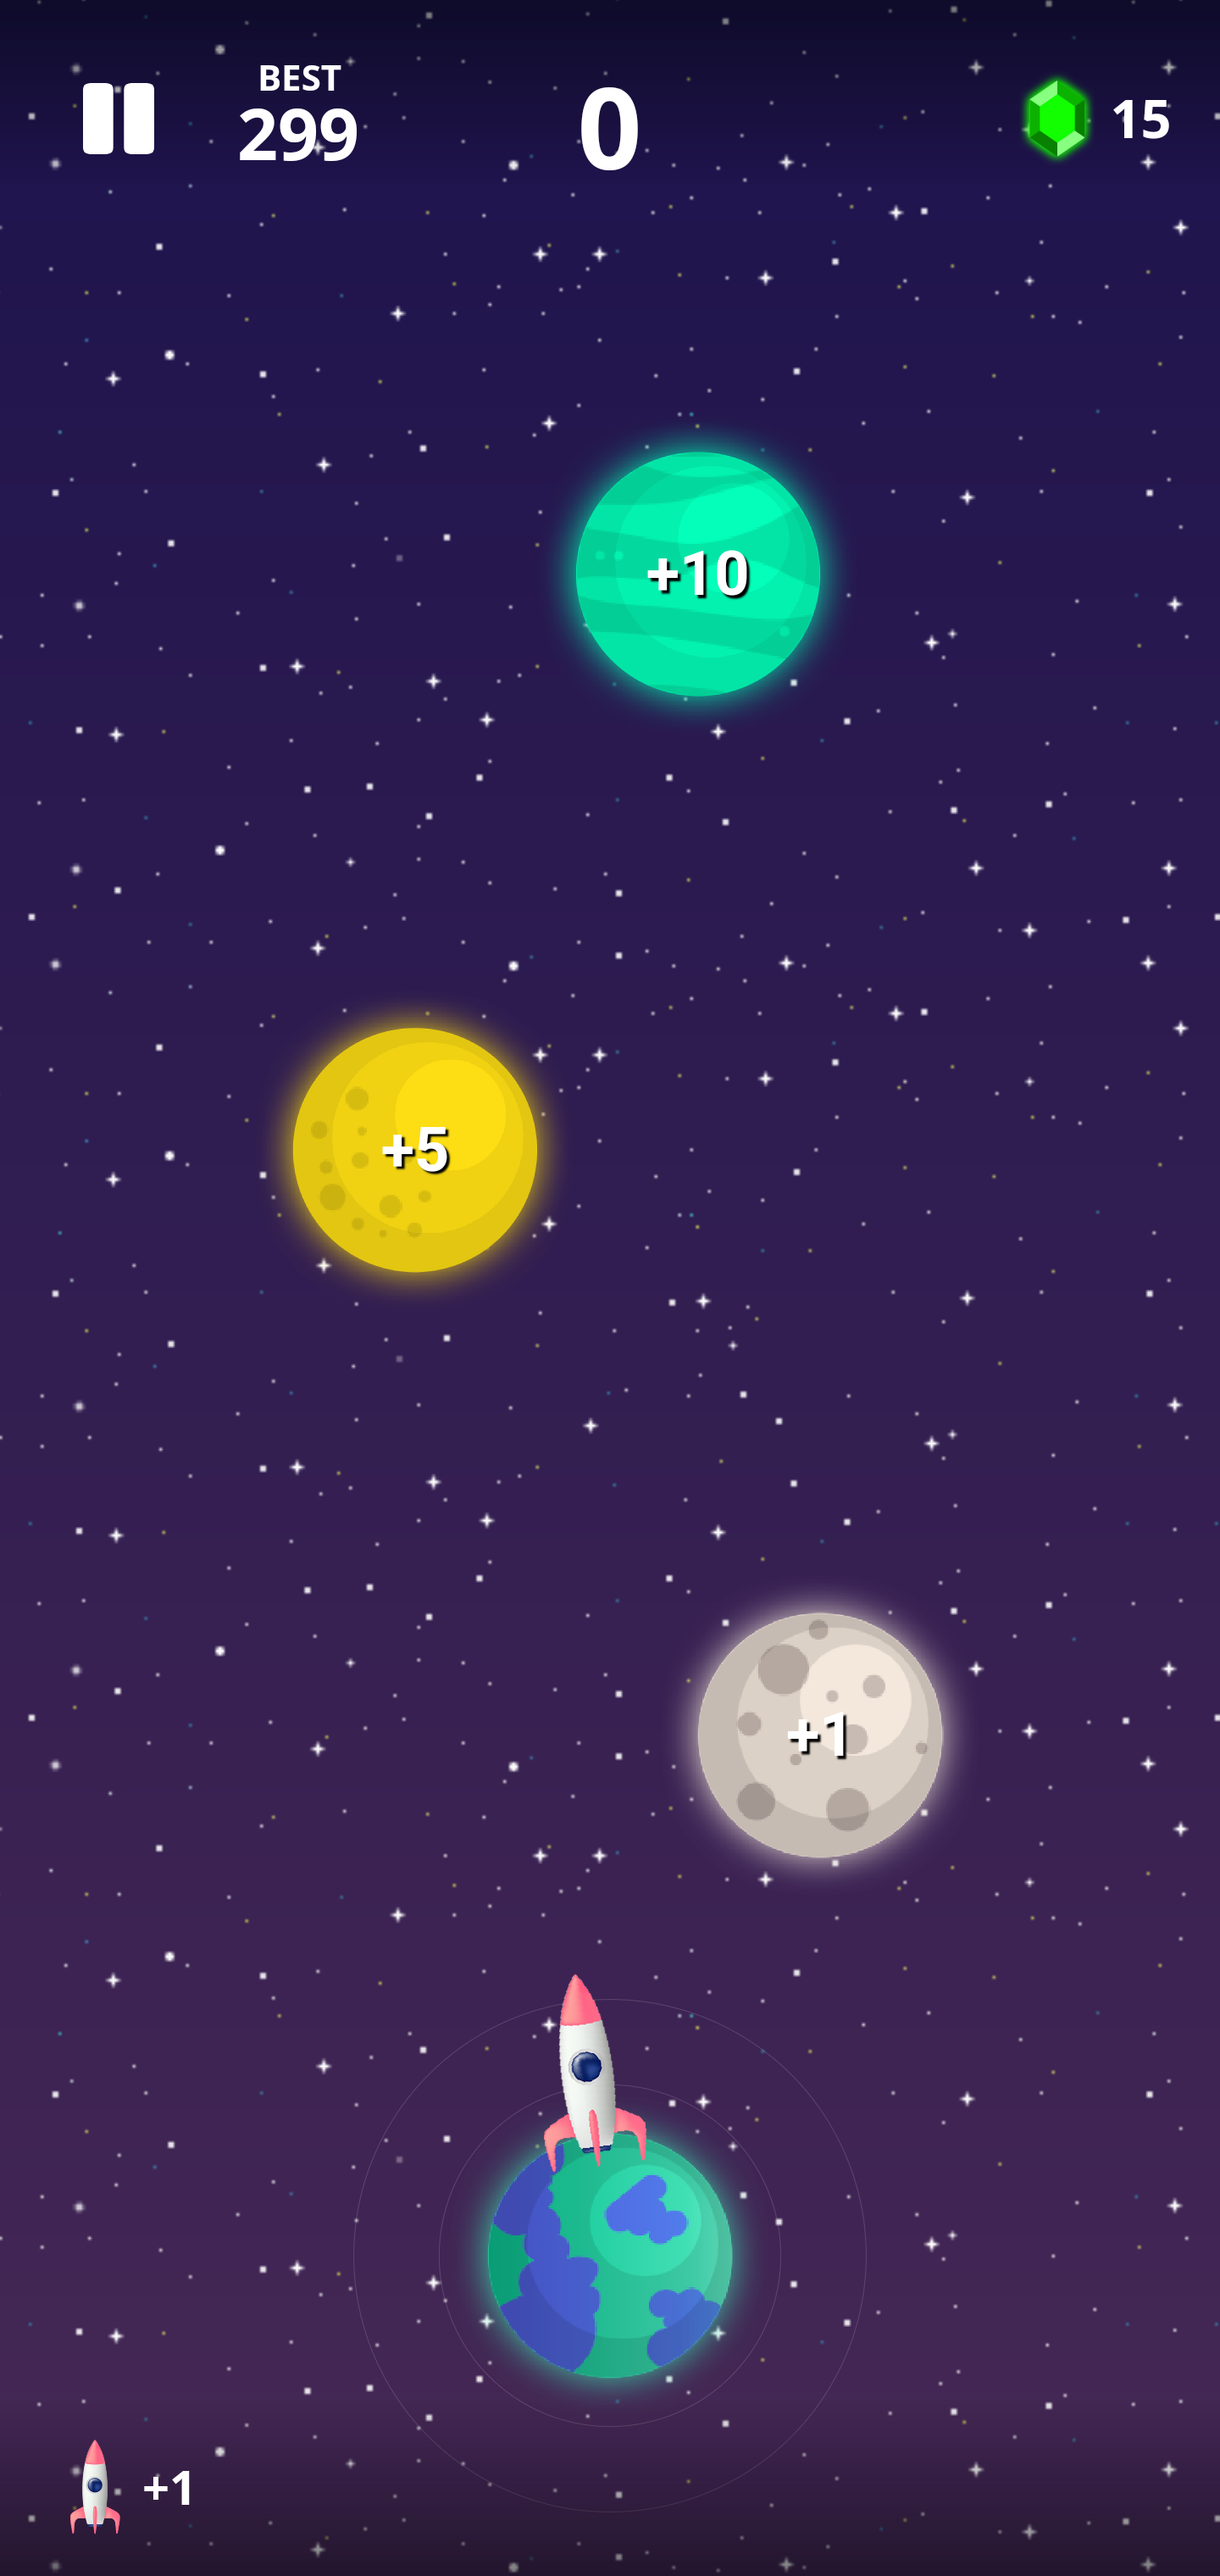
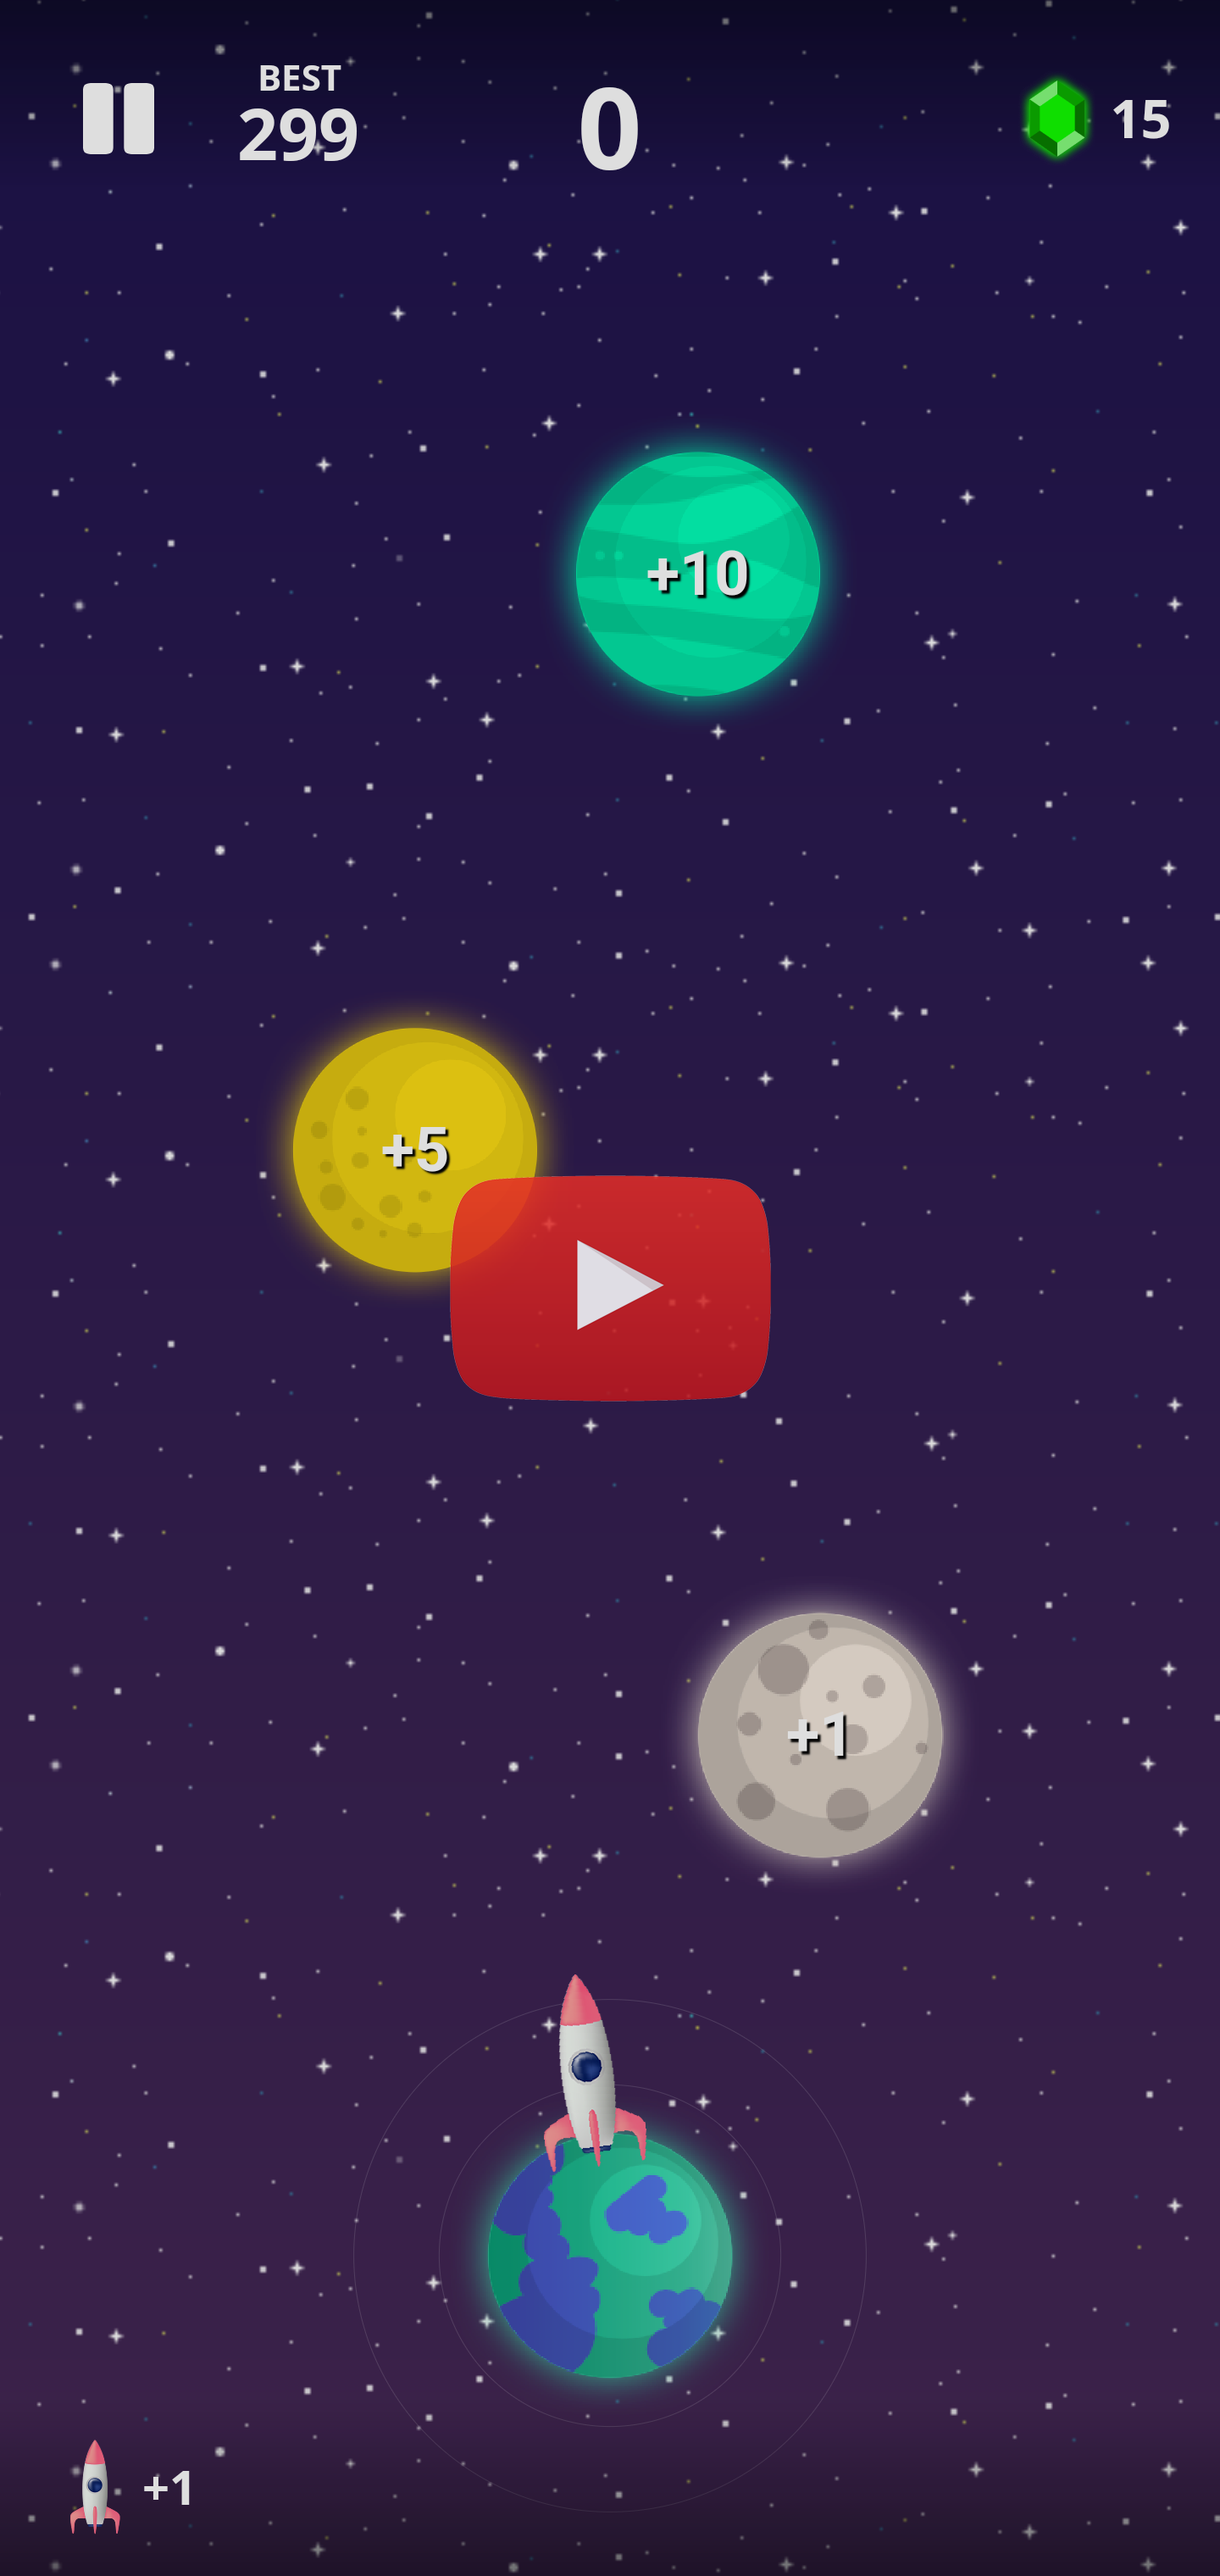
Add youtube link to the first screenshot

diff --git a/index.html b/index.html
@@ -68,8 +68,8 @@
     </div>
     <p>Join us in a cosmic adventure and explore the universe like never before.</p>
     <div class="screenshots">
-        <img src="https://github.com/app2pack-dev/ttg_web/blob/main/assets/screenshots/ttg-screen1.png?raw=true"
-             alt="TTG Screenshot 1">
+        <a href="https://youtube.com/shorts/RMPU3wowAqw"><img src="https://github.com/app2pack-dev/ttg_web/blob/main/assets/screenshots/ttg-screen1.png?raw=true"
+                        alt="TTG Screenshot 1"></a>
         <img src="https://github.com/app2pack-dev/ttg_web/blob/main/assets/screenshots/ttg-screen2.png?raw=true"
              alt="TTG Screenshot 2">
         <img src="https://github.com/app2pack-dev/ttg_web/blob/main/assets/screenshots/ttg-screen3.png?raw=true"
